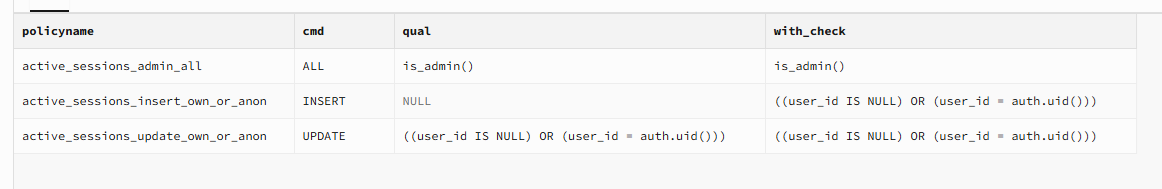
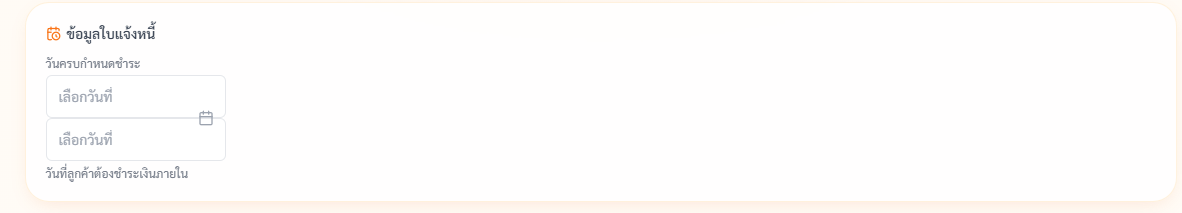
a

diff --git a/app/print/page.tsx b/app/print/page.tsx
@@ -913,30 +913,71 @@ export default function PrintPage() {
           )}
         </section>
 
-        {activeType === "receipt" && data.paymentMethod && (
+        {activeType === "invoice" && data.dueDate && (
           <section
-            className="bg-green-50 border-l-4 border-green-500 rounded mb-4"
+            className="bg-amber-50/60 border border-amber-200 rounded mb-4 flex items-center justify-between"
             style={{
               paddingLeft: "12px",
               paddingRight: "12px",
-              paddingTop: "12px",
+              paddingTop: "8px",
               paddingBottom: "8px",
+              fontSize: "12px",
             }}
           >
-            <div
-              className="text-xs text-gray-500"
-              style={{ marginBottom: "4px", lineHeight: 1 }}
-            >
-              วิธีการชำระเงิน
-            </div>
-            <div
-              className="text-xs font-medium text-gray-800"
-              style={{ lineHeight: 1 }}
-            >
-              {data.paymentMethod}
-            </div>
+            <span className="text-amber-700 font-medium">
+              ครบกำหนดชำระภายใน
+            </span>
+            <span className="font-semibold text-amber-800 tabular-nums">
+              {fmtDate(data.dueDate)}
+            </span>
           </section>
         )}
+
+        {activeType === "receipt" &&
+          (data.paymentMethod || data.paidDate) && (
+            <section
+              className="bg-green-50 border-l-4 border-green-500 rounded mb-4 grid grid-cols-2 gap-3"
+              style={{
+                paddingLeft: "12px",
+                paddingRight: "12px",
+                paddingTop: "10px",
+                paddingBottom: "8px",
+              }}
+            >
+              {data.paidDate && (
+                <div>
+                  <div
+                    className="text-xs text-gray-500"
+                    style={{ marginBottom: "3px", lineHeight: 1 }}
+                  >
+                    วันที่รับเงิน
+                  </div>
+                  <div
+                    className="text-xs font-semibold text-gray-800 tabular-nums"
+                    style={{ lineHeight: 1 }}
+                  >
+                    {fmtDate(data.paidDate)}
+                  </div>
+                </div>
+              )}
+              {data.paymentMethod && (
+                <div>
+                  <div
+                    className="text-xs text-gray-500"
+                    style={{ marginBottom: "3px", lineHeight: 1 }}
+                  >
+                    วิธีการชำระเงิน
+                  </div>
+                  <div
+                    className="text-xs font-semibold text-gray-800"
+                    style={{ lineHeight: 1 }}
+                  >
+                    {data.paymentMethod}
+                  </div>
+                </div>
+              )}
+            </section>
+          )}
 
         {visibility.paymentCondition && activeType !== "receipt" && (
         <section

diff --git a/components/FlatpickrInput.tsx b/components/FlatpickrInput.tsx
@@ -18,6 +18,22 @@ interface Props {
   disabled?: boolean;
 }
 
+function pad(n: number): string {
+  return String(n).padStart(2, "0");
+}
+
+function dateToIso(d: Date): string {
+  return `${d.getFullYear()}-${pad(d.getMonth() + 1)}-${pad(d.getDate())}`;
+}
+
+function dateToTime(d: Date): string {
+  return `${pad(d.getHours())}:${pad(d.getMinutes())}`;
+}
+
+function dateToIsoTime(d: Date): string {
+  return `${dateToIso(d)} ${dateToTime(d)}`;
+}
+
 export default function FlatpickrInput({
   value,
   onChange,
@@ -43,11 +59,22 @@ export default function FlatpickrInput({
       time_24hr: true,
       enableTime: withTime || timeOnly,
       noCalendar: timeOnly,
-      dateFormat: timeOnly ? "H:i" : withTime ? "Y-m-d H:i" : "Y-m-d",
-      altInput: !timeOnly,
-      altFormat: withTime ? "j M Y · H:i" : "j M Y",
-      onChange: (_dates, dateStr) => {
-        onChangeRef.current(dateStr);
+      // Single input — no altInput — display in Thai-friendly format and
+      // convert back to ISO ourselves so external onChange always sees ISO.
+      dateFormat: timeOnly ? "H:i" : withTime ? "j M Y H:i" : "j M Y",
+      onChange: (dates) => {
+        if (!dates.length) {
+          onChangeRef.current("");
+          return;
+        }
+        const d = dates[0];
+        onChangeRef.current(
+          timeOnly
+            ? dateToTime(d)
+            : withTime
+              ? dateToIsoTime(d)
+              : dateToIso(d)
+        );
       },
     }) as Instance;
     fpRef.current = fp;
@@ -61,6 +88,7 @@ export default function FlatpickrInput({
     const fp = fpRef.current;
     if (!fp) return;
     if (value) {
+      // Accept ISO ("2026-05-17" or "2026-05-17 14:30") and time ("14:30").
       fp.setDate(value, false);
     } else {
       fp.clear(false);
@@ -77,7 +105,7 @@ export default function FlatpickrInput({
         placeholder={placeholder || (timeOnly ? "HH:mm" : "เลือกวันที่")}
         required={required}
         disabled={disabled}
-        className="w-full pl-3 pr-10 py-2.5 bg-white border border-gray-200 rounded-md focus:outline-none focus:ring-2 focus:ring-brand-200 tabular-nums cursor-pointer disabled:opacity-50"
+        className="w-full pl-3 pr-10 py-2.5 bg-white border border-gray-200 rounded-md focus:outline-none focus:ring-2 focus:ring-brand-200 tabular-nums cursor-pointer disabled:opacity-50 text-sm"
       />
       <Icon
         size={16}

diff --git a/components/app-shell/AppHeader.tsx b/components/app-shell/AppHeader.tsx
@@ -9,6 +9,7 @@ import FeedbackModal from "@/components/FeedbackModal";
 import DonationModal from "@/components/DonationModal";
 import ShareModal from "@/components/ShareModal";
 import AiPriceCheckModal from "@/components/dashboard/AiPriceCheckModal";
+import StressReliefModal from "@/components/StressReliefModal";
 import {
   Bell,
   MessageCircle,
@@ -17,6 +18,7 @@ import {
   MessageSquare,
   Heart,
   Share2,
+  Smile,
 } from "lucide-react";
 
 const LINE_OA_URL = "https://lin.ee/";
@@ -37,6 +39,7 @@ export default function AppHeader() {
   const [shareOpen, setShareOpen] = useState(false);
   const [aiOpen, setAiOpen] = useState(false);
   const [notifOpen, setNotifOpen] = useState(false);
+  const [reliefOpen, setReliefOpen] = useState(false);
 
   return (
     <>
@@ -121,6 +124,15 @@ export default function AppHeader() {
               <Sparkles size={16} />
             </button>
 
+            <button
+              onClick={() => setReliefOpen(true)}
+              aria-label="คลายเครียด"
+              title="คลายเครียด"
+              className="w-9 h-9 rounded-full bg-white text-amber-500 hover:bg-amber-50 border border-orange-100 flex items-center justify-center transition shadow-soft"
+            >
+              <Smile size={16} />
+            </button>
+
             <div className="w-px h-5 bg-orange-100 mx-0.5 hidden sm:block" />
 
             <button
@@ -184,6 +196,10 @@ export default function AppHeader() {
       />
       <ShareModal open={shareOpen} onClose={() => setShareOpen(false)} />
       <AiPriceCheckModal open={aiOpen} onClose={() => setAiOpen(false)} />
+      <StressReliefModal
+        open={reliefOpen}
+        onClose={() => setReliefOpen(false)}
+      />
     </>
   );
 }

diff --git a/app/app/finance/documents/page.tsx b/app/app/finance/documents/page.tsx
@@ -15,7 +15,6 @@ import ServicesPanel from "@/components/ServicesPanel";
 import TimelinePanel from "@/components/TimelinePanel";
 import QuotePreview from "@/components/QuotePreview";
 import RandomPromptModal from "@/components/RandomPromptModal";
-import StressReliefModal from "@/components/StressReliefModal";
 import FeedbackModal from "@/components/FeedbackModal";
 import DonationModal from "@/components/DonationModal";
 import ShareModal from "@/components/ShareModal";
@@ -32,7 +31,6 @@ import {
 } from "@/components/PdfSettingsSidebar";
 import {
   Dice5,
-  Smile,
   RotateCcw,
   FileText,
   Loader2,
@@ -54,7 +52,6 @@ export default function FinancePage() {
   } = useDocuments();
 
   const [promptOpen, setPromptOpen] = useState(false);
-  const [reliefOpen, setReliefOpen] = useState(false);
   const [feedbackOpen, setFeedbackOpen] = useState(false);
   const [donationOpen, setDonationOpen] = useState(false);
   const [shareOpen, setShareOpen] = useState(false);
@@ -151,11 +148,6 @@ export default function FinancePage() {
           icon={<Dice5 size={12} />}
           label="สุ่มโจทย์"
           onClick={() => setPromptOpen(true)}
-        />
-        <FinHeaderBtn
-          icon={<Smile size={12} />}
-          label="คลายเครียด"
-          onClick={() => setReliefOpen(true)}
         />
       </section>
 
@@ -269,10 +261,6 @@ export default function FinancePage() {
         open={promptOpen}
         onClose={() => setPromptOpen(false)}
         onOpenShare={() => setShareOpen(true)}
-      />
-      <StressReliefModal
-        open={reliefOpen}
-        onClose={() => setReliefOpen(false)}
       />
       <FeedbackModal
         open={feedbackOpen}

diff --git a/components/QuotePreview.tsx b/components/QuotePreview.tsx
@@ -56,10 +56,12 @@ export default function QuotePreview({
   const sheetRef = useRef<HTMLDivElement>(null);
   const [pageBreakYs, setPageBreakYs] = useState<number[]>([]);
 
-  // The preview "sheet" is rendered at whatever width its container gives it;
-  // a real A4 page is 210mm × 297mm (ratio 1:1.4143). We treat the rendered
-  // width as 210mm and compute equivalent page heights from there, then place
-  // dashed indicators at each boundary. Re-measure on size and on data changes.
+  // PDF generation slices each rendered page to fit the printable content area
+  // of A4 (margins 15mm/15mm top/bottom = 22mm, sides = 15mm). The clone is
+  // resized from 210mm-wide source down to a 180mm-wide content area, so one
+  // PDF page captures 260mm of clone height = 260 × (210/180) = 303mm of the
+  // ORIGINAL source height. Use ratio 1.444 (260/180) against the sheet width
+  // so the dashed indicators match where /print actually breaks the PDF.
   useLayoutEffect(() => {
     const sheet = sheetRef.current;
     if (!sheet) return;
@@ -67,7 +69,7 @@ export default function QuotePreview({
       const w = sheet.offsetWidth;
       const h = sheet.offsetHeight;
       if (w === 0) return;
-      const pageHeightPx = w * (297 / 210);
+      const pageHeightPx = w * (260 / 180);
       const breaks: number[] = [];
       let pos = pageHeightPx;
       while (pos < h - 6) {

diff --git a/lib/useModalDismiss.ts b/lib/useModalDismiss.ts
@@ -33,8 +33,11 @@ export function useModalDismiss(
   }, [open]);
 
   return {
-    onBackdropClick: (e: React.MouseEvent) => {
-      if (e.target === e.currentTarget) closeRef.current();
+    // Backdrop click intentionally does nothing — modal closes only via the
+    // explicit X / Cancel button or Escape key. Many call sites pass this to
+    // their backdrop div's onClick, so keep the no-op signature for compat.
+    onBackdropClick: (_e: React.MouseEvent) => {
+      // no-op
     },
   };
 }